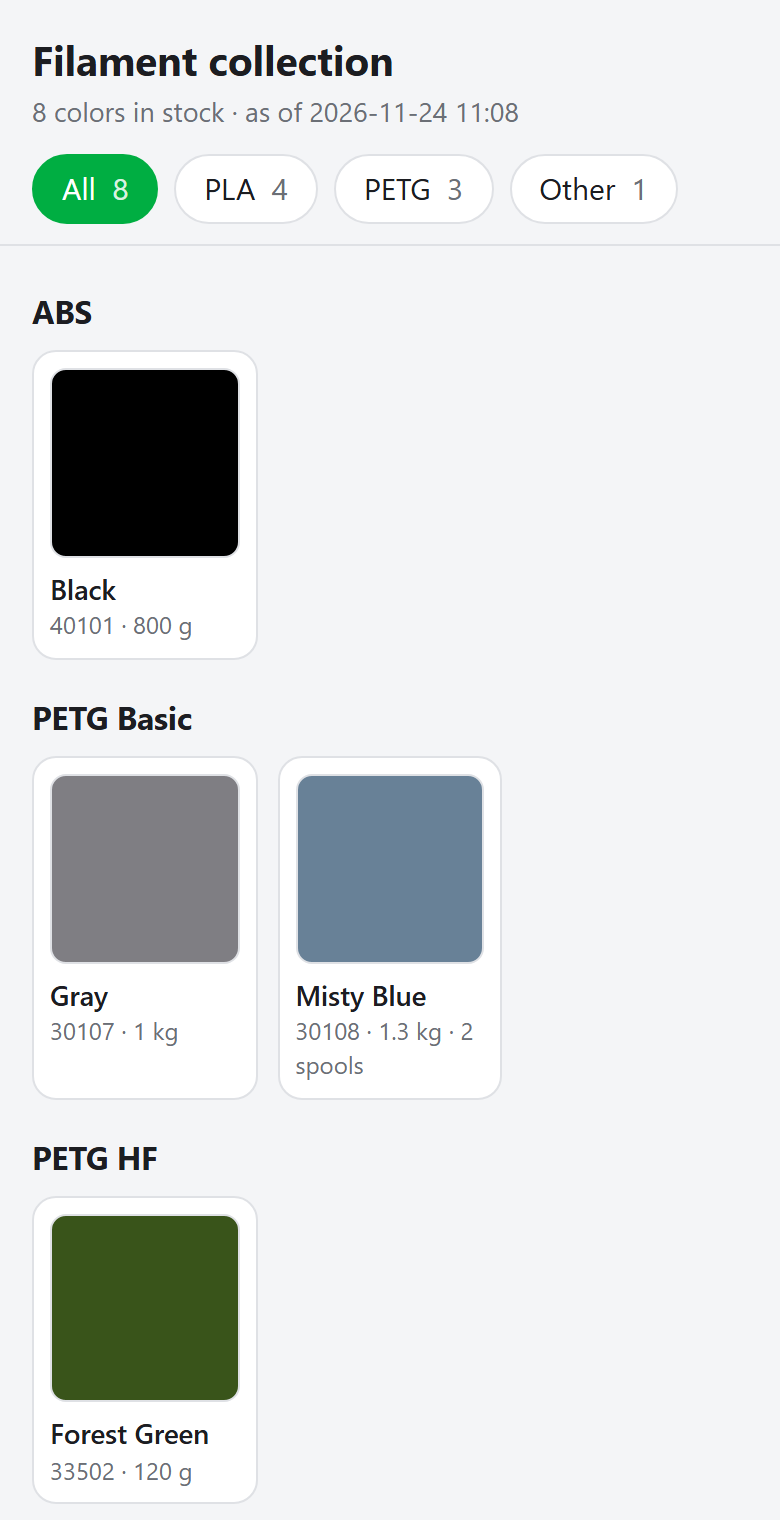
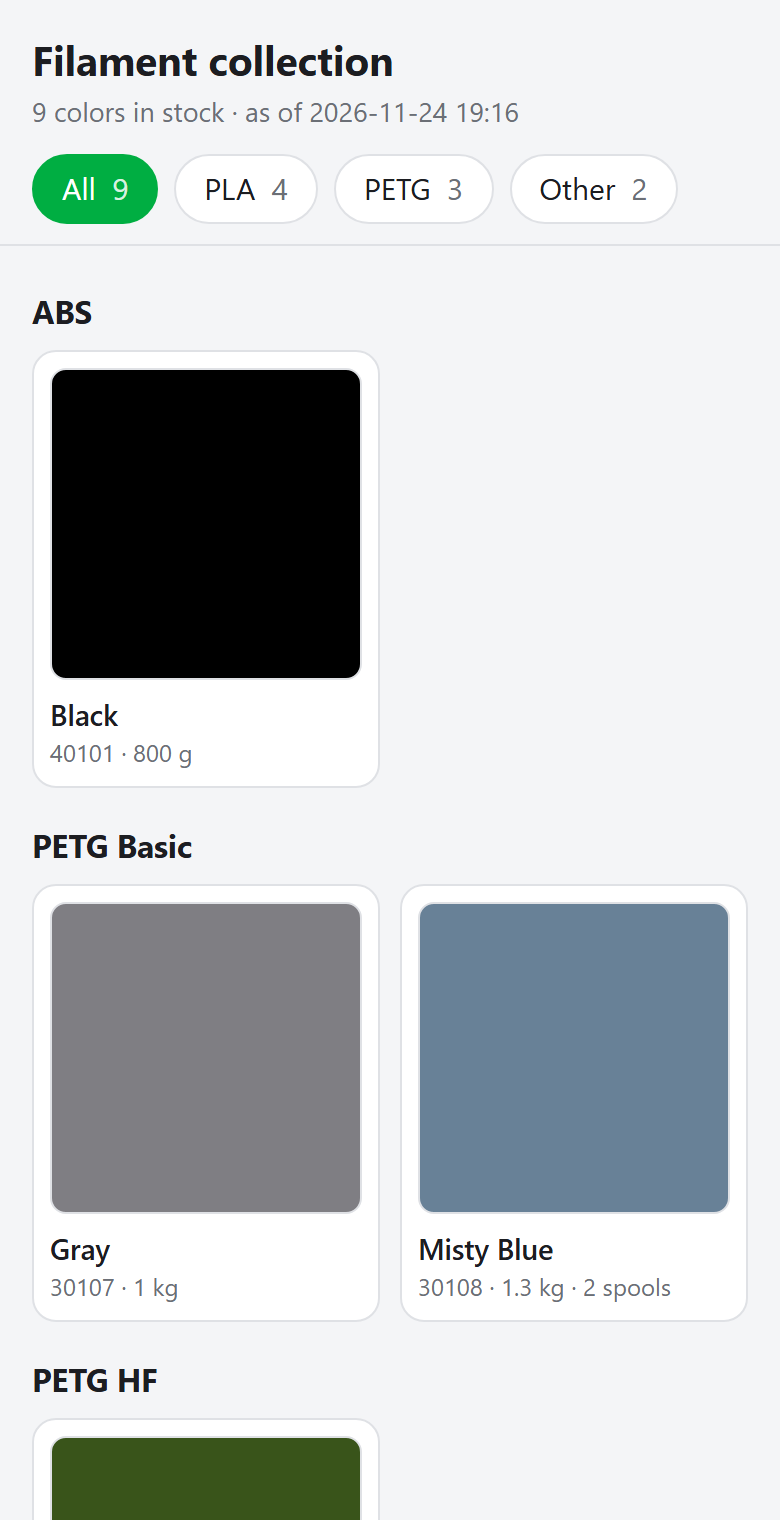
Bigger share page tiles, two columns on phones, tap a tile to zoom (2.4.4)

diff --git a/custom_components/bambu_filaments/www/bambu-filaments-card.js b/custom_components/bambu_filaments/www/bambu-filaments-card.js
@@ -6,7 +6,7 @@
 // Must match "version" in manifest.json (enforced by CI). The backend sends
 // its version in the spools sensor attributes; a mismatch means this browser
 // tab still runs a cached copy of the card from before an update.
-const CARD_VERSION = "2.4.3";
+const CARD_VERSION = "2.4.4";
 
 // HA's frontend service worker matches its cache entries without the query
 // string, so the ?v=<version> bump on the Lovelace resource does not defeat it

diff --git a/custom_components/bambu_filaments/share.py b/custom_components/bambu_filaments/share.py
@@ -31,6 +31,7 @@ from homeassistant.util import dt as dt_util
 
 from .colors import compact_hex
 from .const import DEFAULT_SHARE_REMAINING, DOMAIN, OPT_SHARE_REMAINING, SHARE_URL_BASE
+from .shop import enlarged
 
 if TYPE_CHECKING:
     from .coordinator import BambuFilamentsCoordinator
@@ -201,10 +202,12 @@ def _swatch_html(tile: dict[str, Any]) -> str:
         return f'<div class="sw" style="{style}"></div>'
     # With a photo the tile stays neutral (the photo has its own light
     # background); the page script swaps in the color fill if it fails.
+    # data-full = the bigger photo for the zoom view.
     return (
         f'<div class="sw" data-fill="{html.escape(style)}">'
-        f'<img src="{html.escape(tile["image"])}" alt="" loading="lazy" '
-        'referrerpolicy="no-referrer"></div>'
+        f'<img src="{html.escape(tile["image"])}" '
+        f'data-full="{html.escape(enlarged(tile["image"]) or tile["image"])}" alt="" '
+        'loading="lazy" referrerpolicy="no-referrer"></div>'
     )
 
 
@@ -234,7 +237,7 @@ def render_share_page(
                 if tile["count"] > 1:
                     meta.append(t["spools"](tile["count"]))
             cards.append(
-                f'<div class="tile" data-cat="{tile["category"]}">'
+                f'<div class="tile" data-cat="{tile["category"]}" tabindex="0" role="button">'
                 f"{_swatch_html(tile)}"
                 f'<div class="name">{html.escape(tile["title"])}</div>'
                 f'<div class="meta">{" · ".join(meta)}</div>'
@@ -276,7 +279,7 @@ body {{ margin:0; background:var(--bg); color:var(--text);
   font:15px/1.4 -apple-system, BlinkMacSystemFont, "Segoe UI", Roboto, sans-serif; }}
 header {{ position:sticky; top:0; z-index:2; background:var(--bg); padding:16px 16px 10px;
   border-bottom:1px solid var(--line); }}
-.top {{ max-width:1100px; margin:0 auto; }}
+.top {{ max-width:1240px; margin:0 auto; }}
 h1 {{ margin:0; font-size:1.35em; }}
 .sub {{ color:var(--muted); font-size:0.9em; margin-top:2px; }}
 .chips {{ display:flex; gap:8px; flex-wrap:wrap; margin-top:12px; }}
@@ -285,18 +288,29 @@ h1 {{ margin:0; font-size:1.35em; }}
 .chip span {{ color:var(--muted); margin-left:4px; }}
 .chip.on {{ background:var(--accent); border-color:var(--accent); color:#fff; }}
 .chip.on span {{ color:rgba(255,255,255,0.85); }}
-main {{ padding:4px 16px 32px; max-width:1100px; margin:0 auto; }}
+main {{ padding:4px 16px 32px; max-width:1240px; margin:0 auto; }}
 section {{ margin-top:18px; }}
 h2 {{ font-size:1.05em; margin:0 0 8px; }}
-.grid {{ display:grid; grid-template-columns:repeat(auto-fill, minmax(100px, 1fr)); gap:10px; }}
-.tile {{ background:var(--card); border:1px solid var(--line); border-radius:12px; padding:8px; min-width:0; }}
+.grid {{ display:grid; grid-template-columns:repeat(auto-fill, minmax(200px, 1fr)); gap:12px; }}
+@media (max-width: 600px) {{ .grid {{ grid-template-columns:repeat(2, minmax(0, 1fr)); gap:10px; }} }}
+.tile {{ background:var(--card); border:1px solid var(--line); border-radius:12px; padding:8px; min-width:0;
+  cursor:zoom-in; }}
+.tile:focus-visible {{ outline:2px solid var(--accent); outline-offset:2px; }}
 .sw {{ position:relative; aspect-ratio:1; border-radius:8px; overflow:hidden; border:1px solid var(--line);
   background:#f2f2f2; }}
 .sw img {{ position:absolute; inset:0; width:100%; height:100%; object-fit:cover; }}
-.name {{ font-weight:600; margin-top:6px; font-size:0.92em; overflow-wrap:anywhere; }}
+.name {{ font-weight:600; margin-top:8px; font-size:0.95em; overflow-wrap:anywhere; }}
 .meta {{ color:var(--muted); font-size:0.8em; }}
 .hide {{ display:none; }}
 .empty {{ color:var(--muted); margin-top:24px; }}
+#zoom {{ position:fixed; inset:0; z-index:10; background:rgba(0,0,0,0.92); display:flex; flex-direction:column;
+  align-items:center; justify-content:center; padding:16px; cursor:zoom-out; }}
+#zoom[hidden] {{ display:none; }}
+#zoom .big {{ position:relative; width:min(92vw, 78vh, 820px); aspect-ratio:1; border-radius:14px;
+  overflow:hidden; background:#f2f2f2; }}
+#zoom .big img {{ position:absolute; inset:0; width:100%; height:100%; object-fit:contain; }}
+#zoom .cap {{ color:#fff; margin-top:12px; text-align:center; font-weight:600; }}
+#zoom .cap span {{ display:block; font-weight:400; color:rgba(255,255,255,0.75); font-size:0.9em; }}
 </style>
 </head>
 <body>
@@ -306,6 +320,7 @@ h2 {{ font-size:1.05em; margin:0 0 8px; }}
 <div class="chips">{"".join(chips)}</div>
 </div></header>
 <main>{body}</main>
+<div id="zoom" hidden><div class="big"></div><div class="cap"></div></div>
 <script nonce="{nonce}">
 function fill(img) {{
   var box = img.parentElement;
@@ -315,6 +330,48 @@ function fill(img) {{
 document.querySelectorAll(".sw img").forEach(function (img) {{
   if (img.complete && img.naturalWidth === 0) fill(img);
   else img.addEventListener("error", function () {{ fill(img); }});
+}});
+var zoom = document.getElementById("zoom");
+function closeZoom() {{
+  zoom.hidden = true;
+  zoom.querySelector(".big").innerHTML = "";
+}}
+function openZoom(tile) {{
+  var sw = tile.querySelector(".sw");
+  var img = sw.querySelector("img");
+  var big = zoom.querySelector(".big");
+  big.innerHTML = "";
+  big.setAttribute("style", img ? "" : (sw.getAttribute("style") || ""));
+  if (img) {{
+    var el = document.createElement("img");
+    el.alt = "";
+    el.referrerPolicy = "no-referrer";
+    el.addEventListener("error", function () {{
+      if (el.src !== img.src) el.src = img.src;
+      else {{ el.remove(); big.setAttribute("style", sw.dataset.fill || ""); }}
+    }});
+    el.src = img.dataset.full || img.src;
+    big.appendChild(el);
+  }}
+  var cap = zoom.querySelector(".cap");
+  cap.textContent = tile.querySelector(".name").textContent;
+  var meta = tile.querySelector(".meta").textContent;
+  if (meta) {{
+    var sub = document.createElement("span");
+    sub.textContent = meta;
+    cap.appendChild(sub);
+  }}
+  zoom.hidden = false;
+}}
+zoom.addEventListener("click", closeZoom);
+document.addEventListener("keydown", function (ev) {{
+  if (ev.key === "Escape" && !zoom.hidden) closeZoom();
+}});
+document.querySelectorAll(".tile").forEach(function (tile) {{
+  tile.addEventListener("click", function () {{ openZoom(tile); }});
+  tile.addEventListener("keydown", function (ev) {{
+    if (ev.key === "Enter" || ev.key === " ") {{ ev.preventDefault(); openZoom(tile); }}
+  }});
 }});
 document.querySelectorAll(".chip").forEach(function (chip) {{
   chip.addEventListener("click", function () {{

diff --git a/custom_components/bambu_filaments/shop.py b/custom_components/bambu_filaments/shop.py
@@ -66,6 +66,7 @@ _SAFE_URL_RE = re.compile(r"^https://[A-Za-z0-9.-]+/[A-Za-z0-9._~/%+,-]*(\?[A-Za
 # Bambu's image CDN scales on the fly; the full product photos are 1600 px.
 _CDN_HOST_RE = re.compile(r"^https://[a-z0-9.-]*bblcdn\.[a-z]+/")
 _THUMB_OPS = "__op__resize,m_lfit,w_400__op__format,f_auto__op__quality,q_80"
+_LARGE_OPS = "__op__resize,m_lfit,w_1200__op__format,f_auto__op__quality,q_85"
 
 
 def thumbnail(url: str | None) -> str | None:
@@ -74,6 +75,14 @@ def thumbnail(url: str | None) -> str | None:
         return None
     if _CDN_HOST_RE.match(url) and "__op__" not in url:
         return url + _THUMB_OPS
+    return url
+
+
+def enlarged(url: str | None) -> str | None:
+    """1200 px version of a thumbnail made by `thumbnail` (for the zoom view
+    of the share page); other URLs unchanged."""
+    if url and url.endswith(_THUMB_OPS):
+        return url[: -len(_THUMB_OPS)] + _LARGE_OPS
     return url
 
 

diff --git a/SPEC.md b/SPEC.md
@@ -63,6 +63,7 @@ Spool gallery: color chip, vendor/name, remaining bar (g + %), material filter, 
 - Product line of a shop color (v2.4.1): the color DB name by default, but the color DB files sub-lines under their base line (PLA Basic Gradient = "PLA Basic", PLA Silk Multi-Color = "PLA Silk"). A shop page name that extends the DB name by another word wins (`shop.product_line`); "Support for PLA (New Version)" and the combined "TPU 85A / TPU 90A" page keep the DB names. Live: PLA Basic 30 colors, PLA Basic Gradient 8, PLA Silk Multi-Color 10.
 - Color DB lookup order (v2.4.2): tray code first (`trayIdName` "A16-R0" = filament id without "GF" + the DB `color_code`; unique per filament id across the whole DB; a prefix that does not match the spool's filament id is ignored), then filament id + exact colors, then color only (name lookup, not strict codes). Reason: some RFID tags carry a hex that differs from the DB - every PLA Wood Rosewood tag reads #3F231C, DB and shop say #4C241C (seen on a second user's spool in SpoolmanSync issue 108; ha-bambulab PR 2357 uses the same fallback). Auto-dedup also matches a manual twin by equal strict color code, so stock created by color code is adopted. ha-bambulab tray sensors do not expose the tag's tray code, so auto-register (user decision 2026-11-24, "auf Nummer sicher") only creates spools whose filament id + colors (`cols` attribute, multi-color included) match the DB exactly (`official_tray_code`); others are logged once at INFO and left to Handy/Studio, which read the tray code from the printer.
 - Transparent colors (v2.4.3): 25 color DB codes carry an alpha below FF (Natural support 65102 = #00000000, translucent PLA/PETG lines). `compact_hex` keeps the alpha (opaque colors stay #RRGGBB like Studio); create/update send it, verified by a self-cleaning probe 2026-11-24 (create accepts #00000000 as color, PUT accepts it in color + colors). Before, cutting the alpha turned Natural into Black (65103) and translucent code-created spools lost their name. Card and share page draw a checkerboard behind (partly) transparent colors.
+- Share page layout (v2.4.4, user request): tiles min 200 px on desktop (about 5 per row), exactly 2 columns up to 600 px width; tapping a tile opens a zoom overlay (photo at 1200 px via `shop.enlarged`, falling back to the thumbnail, then to the color fill; caption = name + meta; closes on click or Escape).
 - Share page categories: material prefix PLA / PETG, everything else Other; support filaments (line contains "Support", or material ending in `-S`) count as Other although the cloud reports them as `PLA` / `PLA-S`. Categories without colors get no chip.
 - Card photos + tiles (v2.4.0, user request 2026-11-24): `show_images` (default off, all modes) swaps the color square of Bambu Lab spools with a known `bambu_color_code` for the shop photo (`get_shop_range` response key `images` = {code: thumbnail} over every code seen, retired ones included; same neutral-box + data-fill load-error fallback as the share page). `layout: tiles` (default `list`, spools mode) renders a grid per group; stacks/children/cog/details behave like rows (shared `_itemData`, `.item` class for the click handlers).
 - Product photos (user's choice, 2026-11-24, instead of the near-flat picker swatches) are hot-linked from Bambu's CDN, never stored in the repo; README screenshots use hex fills only. The tile is neutral grey behind a photo and switches to the hex fill only if the photo fails to load.

diff --git a/README.md b/README.md
@@ -212,9 +212,9 @@ The quick actions are meant for corrections and for spools whose usage is not bo
 
 ## Share page
 
-Turn on *Public share page* under *Configure*. The link appears as the **Share link** sensor on the *Bambu Filament Library* device — copy it and send it to friends. They see the colors you have in stock (spools with filament left, identical spools merged into one tile), filterable by PLA, PETG and other materials (support filaments count as other; filters without any color are hidden); with *Show remaining weight* also grams and spool count. Notes, RFIDs and printer names are never shown.
+Turn on *Public share page* under *Configure*. The link appears as the **Share link** sensor on the *Bambu Filament Library* device — copy it and send it to friends. They see the colors you have in stock (spools with filament left, identical spools merged into one tile), filterable by PLA, PETG and other materials (support filaments count as other; filters without any color are hidden); with *Show remaining weight* also grams and spool count. Tap a tile to see the photo or color large. Notes, RFIDs and printer names are never shown.
 
-<img src="https://raw.githubusercontent.com/Timmes123/ha-bambu-filaments/main/images/share-page.png" width="300" alt="Share page on a phone, filtered to PETG">
+<img src="https://raw.githubusercontent.com/Timmes123/ha-bambu-filaments/main/images/share-page.png" width="300" alt="Share page on a phone">
 
 - Home Assistant must be reachable from the internet (Nabu Casa or your own reverse proxy); the page lives at `/bambu_filaments/share/<secret>`.
 - The secret is long and random; **Renew share link** invalidates every link handed out so far.
